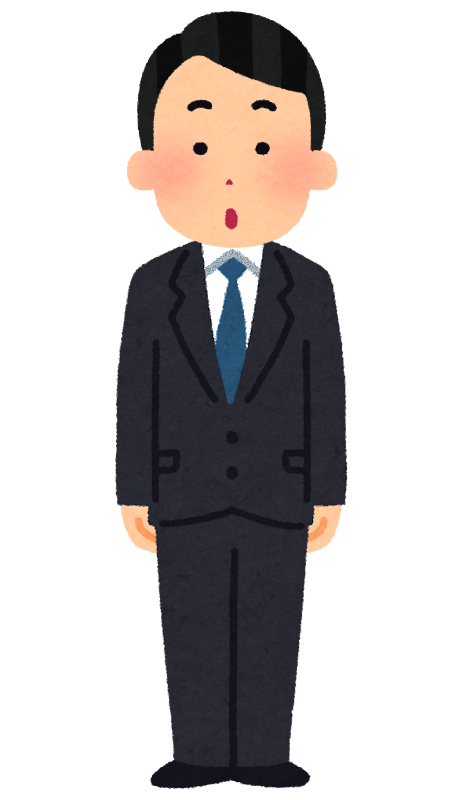
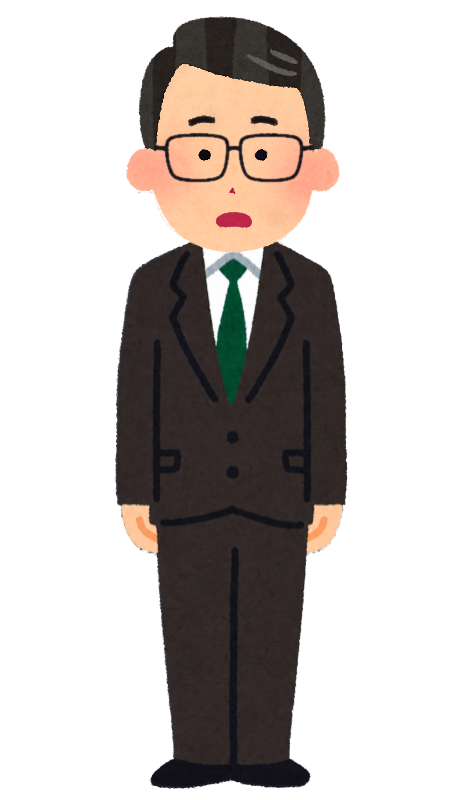
サブキャラ(営業/部長/豆山/偉い人)に6状態の表情を追加する
- StoryVideo.tsx: mobImage()をexpression直接一致方式に変更（旧2状態モブは
  agitatedフォールバックのまま動作）
- mobs.json: 営業/部長/豆山を新6状態(angry/exasperated/normal/shaken/smile/wry)に
  更新し、偉い人を新規追加。旧agitated・旧normal素材は削除
- story_editor.html: モブ編集UIがnormal/agitated決め打ちで、6状態モブを保存すると
  残り5状態が消えてしまうバグを修正。任意の状態数に対応し、状態の追加・削除ボタンを追加

diff --git a/story_editor.html b/story_editor.html
@@ -17756,21 +17756,91 @@ function makeMobCard(name, def) {
 
   card.appendChild(voiceRow);
 
-  const normalTitle = document.createElement("div");
-  normalTitle.textContent = "通常表情";
-  normalTitle.style.cssText = "font-size:12px; font-weight:700; color:var(--text2); margin-top:4px;";
-  card.appendChild(normalTitle);
-  card.appendChild(makeMobImageSlot("画像（口閉じ）", def.images?.normal?.closed, nameGetter, "normal", "closed"));
-  card.appendChild(makeMobImageSlot("画像（口開け）", def.images?.normal?.open, nameGetter, "normal", "open"));
+  const statesBox = document.createElement("div");
+  statesBox.className = "mob-states-box";
+  statesBox.style.cssText = "display:flex; flex-direction:column; gap:10px;";
+  card.appendChild(statesBox);
 
-  const agitatedTitle = document.createElement("div");
-  agitatedTitle.textContent = "取り乱し表情（任意・未設定なら通常表情を使用）";
-  agitatedTitle.style.cssText = "font-size:12px; font-weight:700; color:var(--text2); margin-top:4px;";
-  card.appendChild(agitatedTitle);
-  card.appendChild(makeMobImageSlot("画像（口閉じ）", def.images?.agitated?.closed, nameGetter, "agitated", "closed"));
-  card.appendChild(makeMobImageSlot("画像（口開け）", def.images?.agitated?.open, nameGetter, "agitated", "open"));
+  // normalを先頭、以後は既知の並び→アルファベット順。1つも無ければnormalを空で用意する。
+  const knownOrder = ["normal", "smile", "shaken", "angry", "exasperated", "wry", "agitated"];
+  const existing = Object.keys(def.images || {});
+  const states = ["normal", ...existing.filter((s) => s !== "normal")]
+    .filter((s, i, arr) => arr.indexOf(s) === i)
+    .sort((a, b) => {
+      const ia = knownOrder.indexOf(a), ib = knownOrder.indexOf(b);
+      if (a === "normal") return -1;
+      if (b === "normal") return 1;
+      if (ia === -1 && ib === -1) return a.localeCompare(b);
+      if (ia === -1) return 1;
+      if (ib === -1) return -1;
+      return ia - ib;
+    });
+  for (const state of states) {
+    statesBox.appendChild(makeMobStateSection(state, def, nameGetter));
+  }
+
+  const addStateBtn = document.createElement("button");
+  addStateBtn.type = "button";
+  addStateBtn.className = "btn btn-secondary btn-sm";
+  addStateBtn.style.alignSelf = "flex-start";
+  addStateBtn.textContent = "＋ 状態を追加";
+  addStateBtn.addEventListener("click", () => {
+    const raw = prompt("追加する状態名（半角英数字。例: smile, shaken, angry, exasperated, wry）");
+    if (raw === null) return;
+    const state = raw.trim();
+    if (!state.match(/^[a-zA-Z0-9_]+$/)) {
+      alert("状態名は半角英数字・アンダースコアのみです。");
+      return;
+    }
+    if (statesBox.querySelector(`[data-state-section="${CSS.escape(state)}"]`)) {
+      alert("その状態名は既にあります。");
+      return;
+    }
+    statesBox.appendChild(makeMobStateSection(state, { images: {} }, nameGetter));
+    markMobsDirty();
+  });
+  card.appendChild(addStateBtn);
 
   return card;
+}
+
+// 表情状態名→日本語の見出し。未知の状態名はキーそのまま表示する。
+const MOB_STATE_LABELS = {
+  normal: "通常",
+  agitated: "取り乱し(任意・未設定なら通常表情を使用)",
+  smile: "笑顔",
+  shaken: "動揺",
+  angry: "怒り",
+  exasperated: "呆れ",
+  wry: "苦笑い",
+};
+
+function makeMobStateSection(state, def, nameGetter) {
+  const box = document.createElement("div");
+  box.dataset.stateSection = state;
+  box.style.cssText = "display:flex; flex-direction:column; gap:6px;";
+
+  const titleRow = document.createElement("div");
+  titleRow.style.cssText = "display:flex; align-items:center; gap:8px; margin-top:4px;";
+
+  const title = document.createElement("div");
+  title.textContent = `${MOB_STATE_LABELS[state] || state}（${state}）`;
+  title.style.cssText = "font-size:12px; font-weight:700; color:var(--text2);";
+  titleRow.appendChild(title);
+
+  if (state !== "normal") {
+    const delBtn = document.createElement("button");
+    delBtn.type = "button";
+    delBtn.className = "btn btn-secondary btn-sm";
+    delBtn.textContent = "この状態を削除";
+    delBtn.addEventListener("click", () => { box.remove(); markMobsDirty(); });
+    titleRow.appendChild(delBtn);
+  }
+
+  box.appendChild(titleRow);
+  box.appendChild(makeMobImageSlot("画像（口閉じ）", def.images?.[state]?.closed, nameGetter, state, "closed"));
+  box.appendChild(makeMobImageSlot("画像（口開け）", def.images?.[state]?.open, nameGetter, state, "open"));
+  return box;
 }
 
 async function saveMobs() {

diff --git a/video/src/StoryVideo.tsx b/video/src/StoryVideo.tsx
@@ -607,13 +607,16 @@ function effectiveInsertAt(script: StoryTurn[], idx: number): StoryInsert | null
   // 未指定なら描画側（InsertVideoCall）が現在の話者へ自動追従する。
   return { ...merged, activeSpeaker: own?.activeSpeaker };
 }
-// 取り乱し系の表情なら agitated（焦り/怒り）、それ以外は normal。
-// 未知の追加表情は normal 扱い（組み込み5種と比較してフォールバック）。
+// サブキャラ（営業/部長/豆山等、6状態: normal/smile/shaken/angry/exasperated/wry）は
+// 自分の状態名をそのまま expression に指定する運用のため、images のキーと直接一致させる。
+// 一致しなければ旧2状態モブ用の agitated 判定へフォールバックし、それも無ければ normal。
 function mobImage(mobId: string, expression?: StoryExpression, mouthOpen?: boolean): string {
   const m = MOBS[mobId];
   const agitated =
     expression === "panic" || expression === "surprise" || expression === "trouble";
-  const key = agitated && m.images.agitated ? "agitated" : "normal";
+  const key = (expression && m.images[expression])
+    ? expression
+    : (agitated && m.images.agitated) ? "agitated" : "normal";
   const pair = m.images[key] ?? Object.values(m.images)[0];
   return (mouthOpen ? pair.open : pair.closed) ?? pair.closed ?? pair.open;
 }